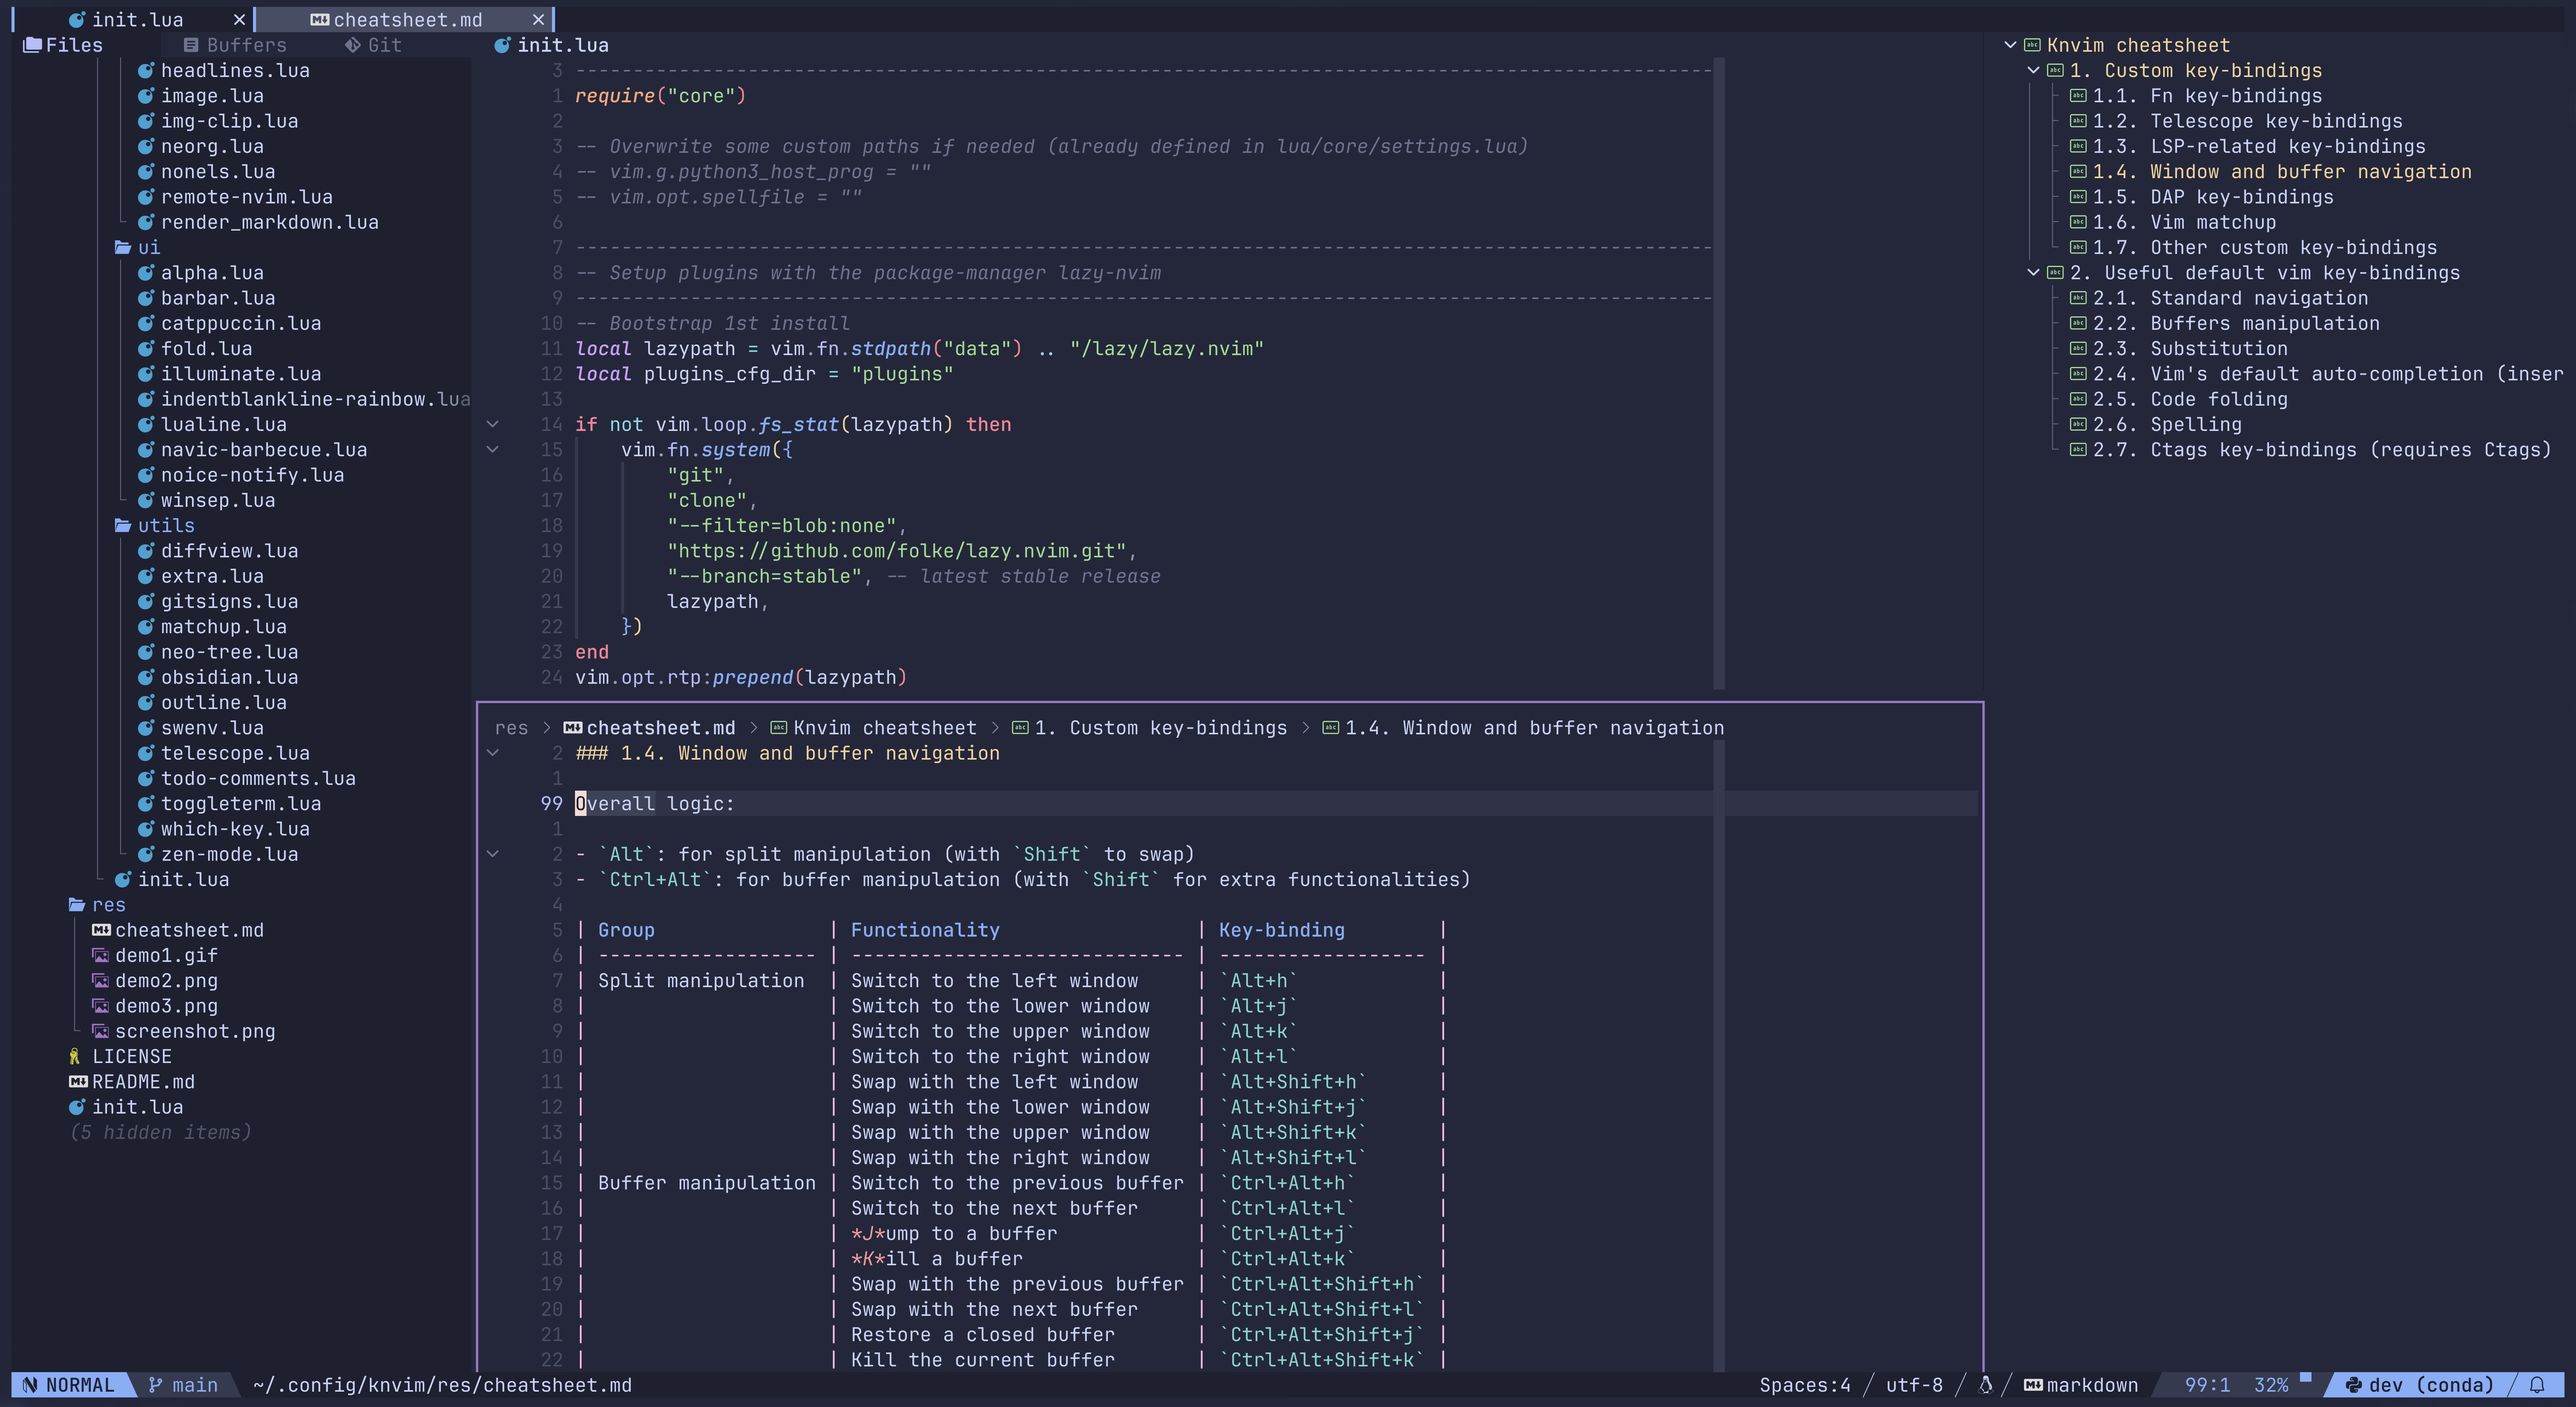
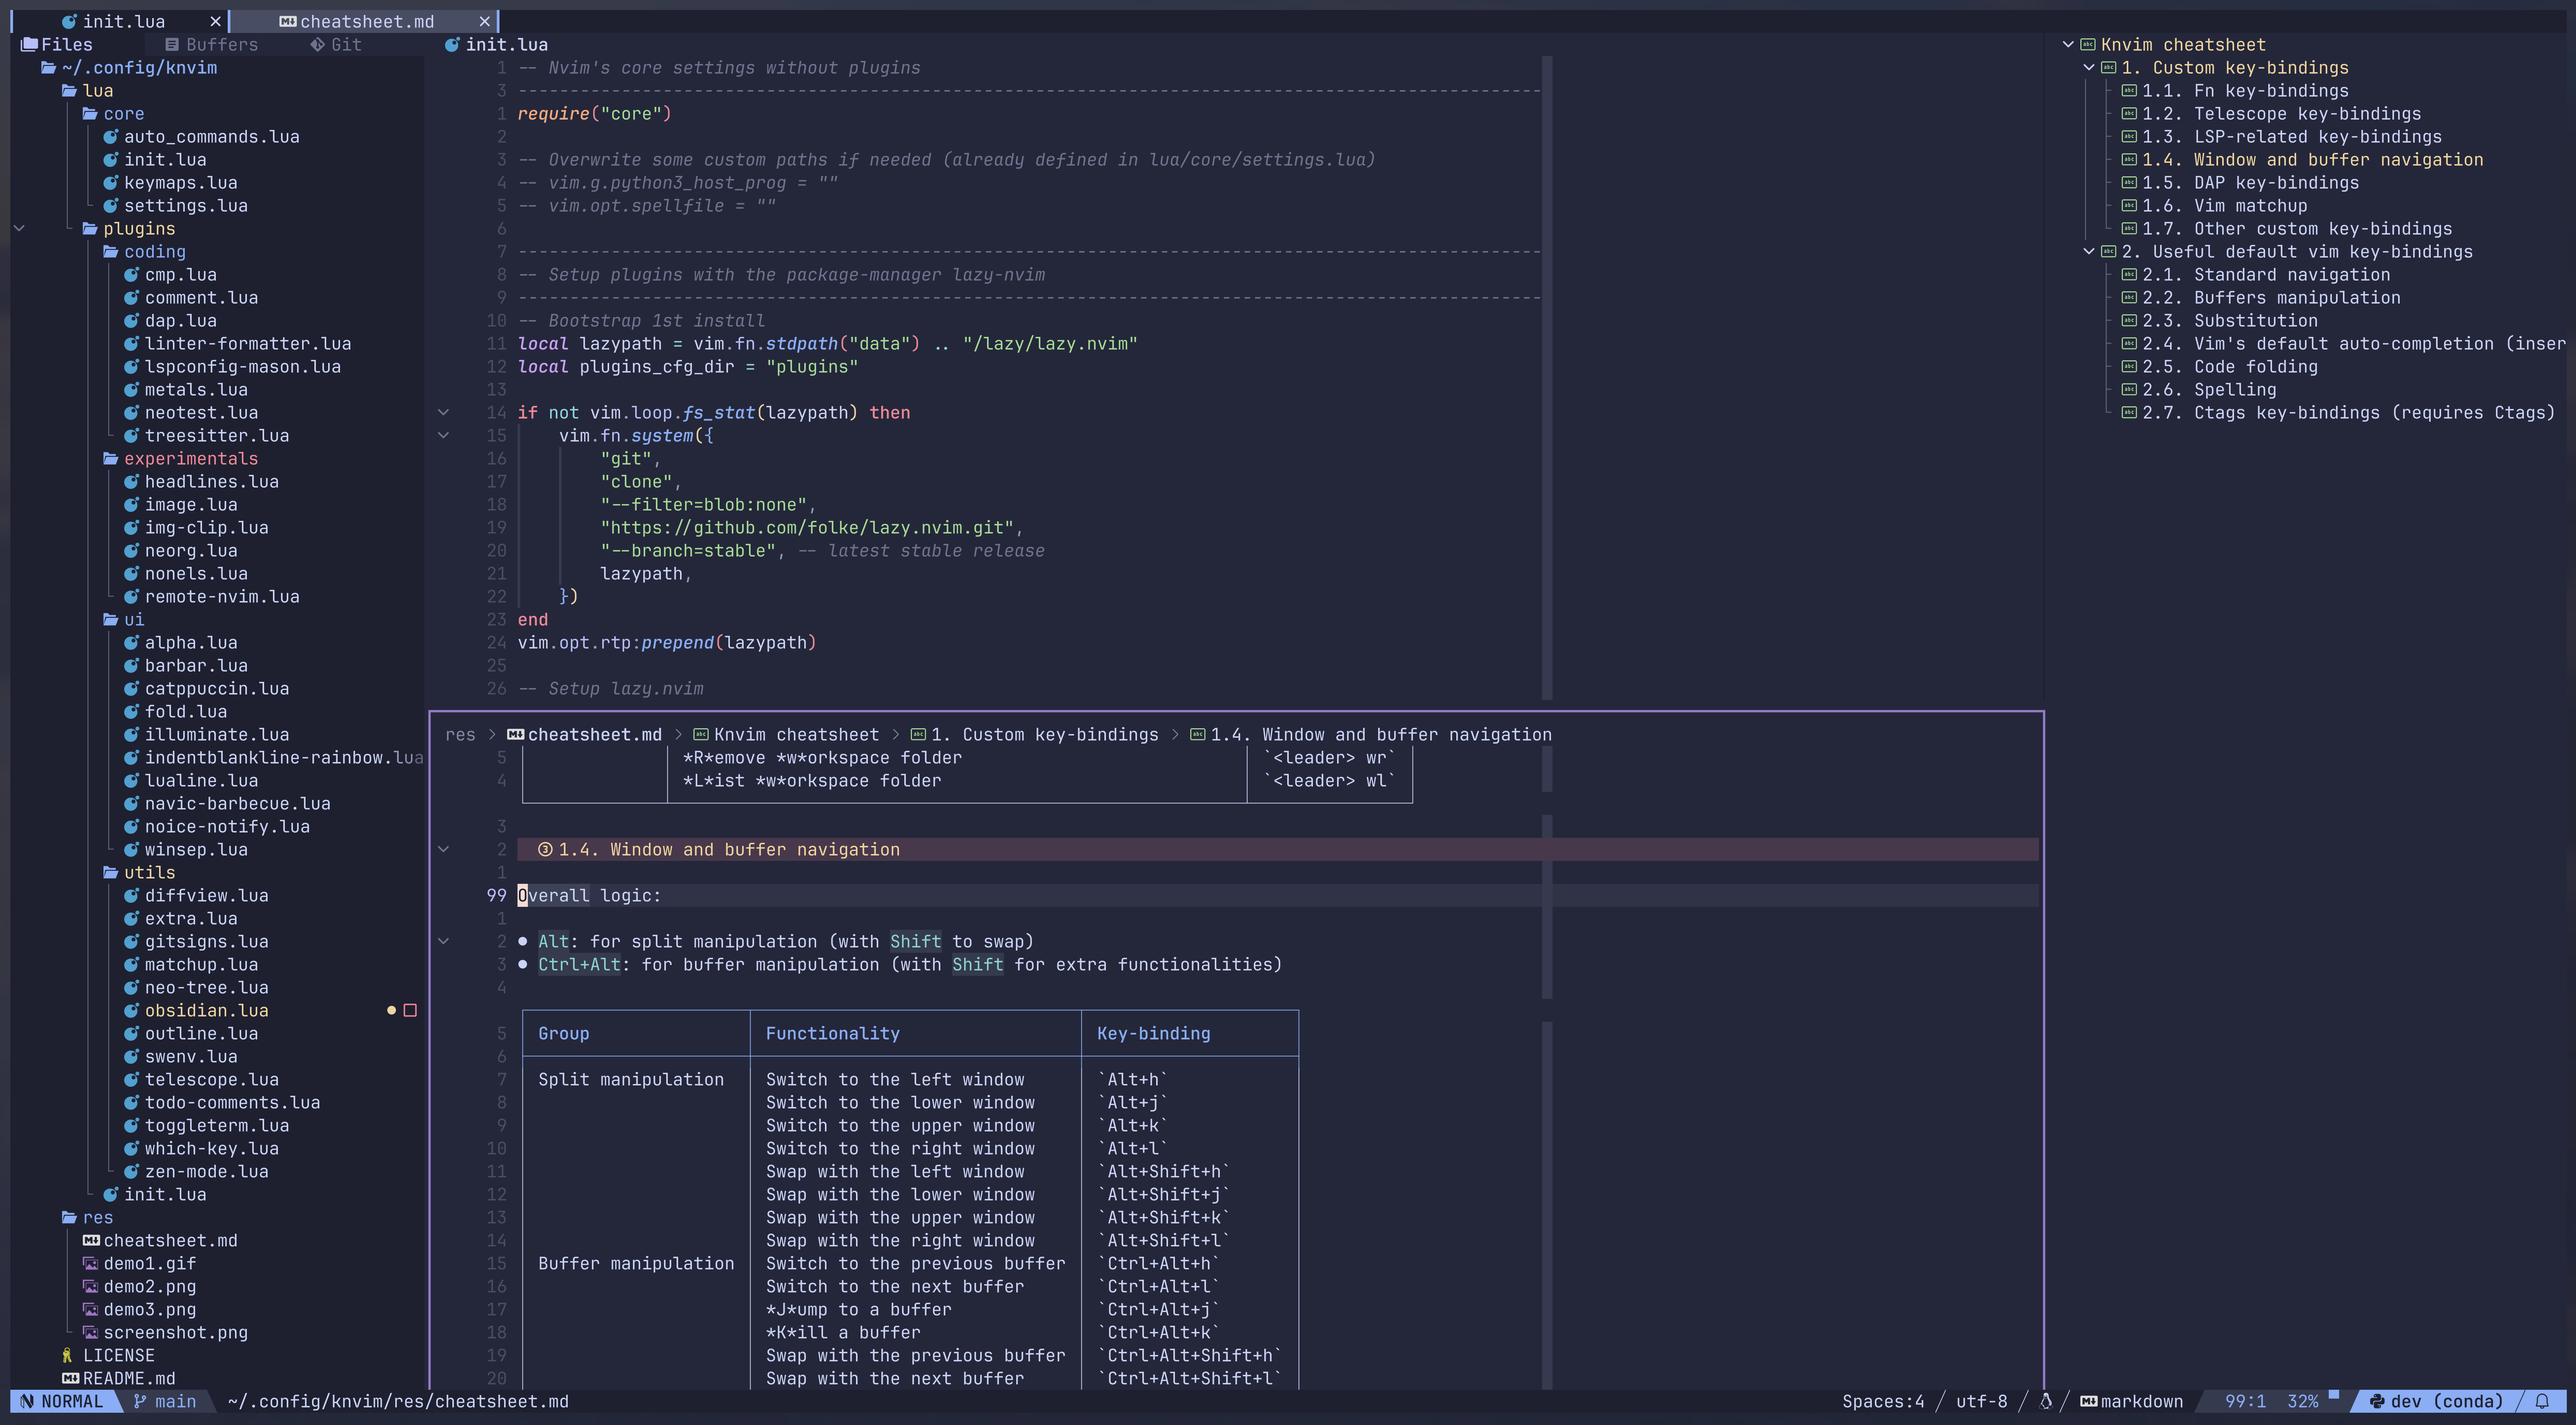
better integration with obsidian

diff --git a/README.md b/README.md
@@ -12,7 +12,7 @@ K-nvim or kn-vim, personal attempt to config Neovim and a pun on my username knm
 Video demo with clickable lualine
 ![demo3](./res/demo1.gif)
 
-Config structure and cheatsheet
+Config structure and cheatsheet (rendered)
 ![demo1](./res/demo2.png)
 
 Editing a python file, with LSP, Tree-sitter, and outline support
